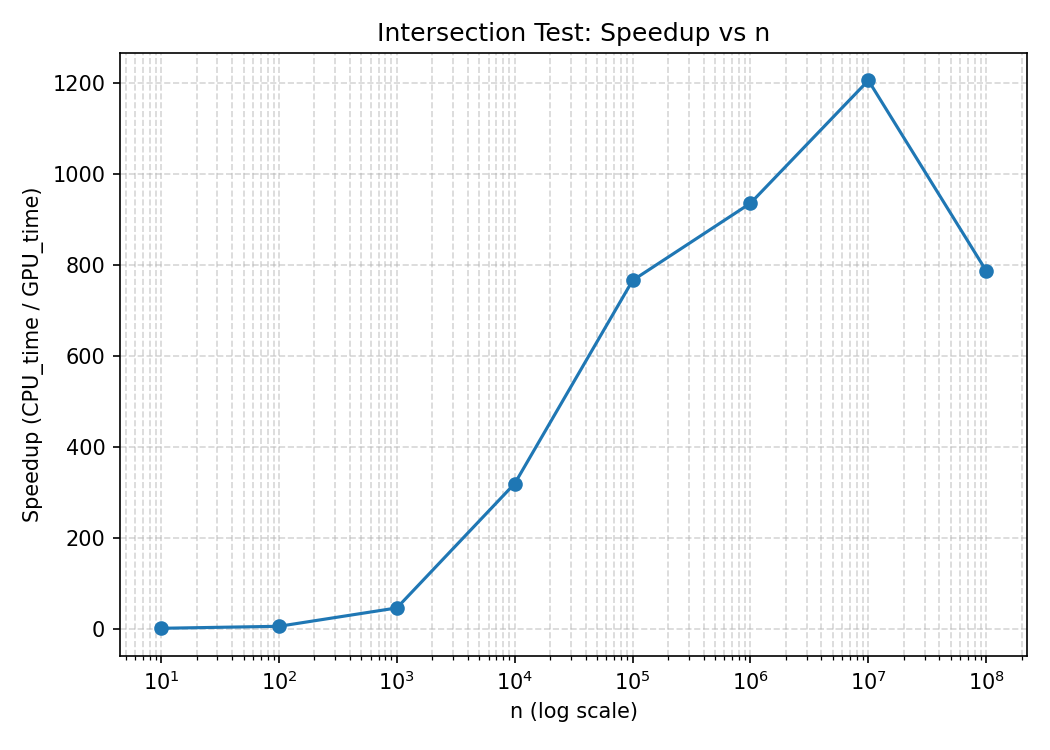
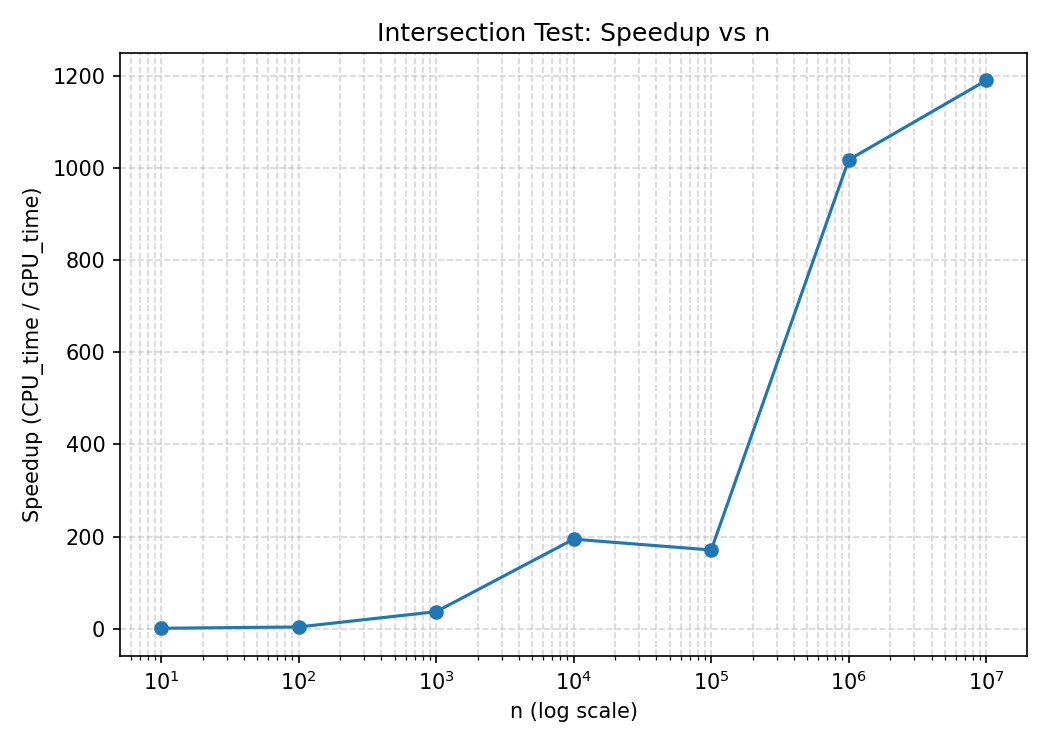
Breakdown GPU speedup test timing

Changed region(s): [[0.061, 0.0613, 0.9752, 0.92]]

diff --git a/examples/GPU speedup test/bench_intersection_test.py b/examples/GPU speedup test/bench_intersection_test.py
@@ -13,6 +13,9 @@ Usage:
   python bench_intersection_test.py --max-mem-gb 8  # skip cases estimated > 8 GB RAM
 """
 
+import numpy as np
+from geometry import get_intersection_area
+from geometry_gpu import get_intersection_area_gpu_profiler
 import argparse
 import csv
 import math
@@ -20,19 +23,41 @@ import os
 import sys
 import time
 from dataclasses import dataclass
-from intersection_test import test
 import matplotlib.pyplot as plt
+from numba import cuda
 
 
 @dataclass
 class RunResult:
     n: int
     cpu_time: float
-    gpu_time: float
-    speedup: float
+    gpu_call_time: float          # end-to-end time of Python call (includes host array creation)
+    gpu_h2d_s: float              # measured inside geometry_gpu (H->D copies)
+    gpu_alloc_s: float            # device allocations inside geometry_gpu
+    gpu_kernel_ms: float          # kernel time from CUDA events
+    gpu_d2h_s: float              # measured inside geometry_gpu (D->H copy)
+    gpu_total_s: float            # h2d + alloc + kernel + d2h (inside geometry_gpu)
+    speedup: float                # CPU_time / gpu_call_time (or choose /gpu_total_s)
     cpu_ok: bool
     gpu_ok: bool
     note: str = ""
+
+
+def test_routine(n=1, gpu=False):
+    proj_faces = np.tile(np.array([[[0, 0, 0], [2, 0, 0], [2, 2, 0], [0, 2, 0]]], dtype=np.float32), (n, 1, 1))
+    tri_normal = np.tile(np.array([[0, 0, 1]], dtype=np.float32), (n, 1))
+    tri_plane_normal = np.tile(np.array([[[-1, 0, 0], [0, -1, 0], [1/np.sqrt(2), 1/np.sqrt(2), 0]]], dtype=np.float32), (n, 1, 1))
+    tri_vertices = np.tile(np.array([[[0, 0, 0], [1, 0, 0], [0, 1, 0]]], dtype=np.float32), (n, 1, 1))
+    tri_epsilon = np.full((n,), 1e-6, dtype=np.float32)
+
+    if gpu:
+        computed_area, prof = get_intersection_area_gpu_profiler(proj_faces, tri_normal, tri_plane_normal, tri_vertices, tri_epsilon)
+        return computed_area, prof
+    else:
+        computed_area = get_intersection_area(proj_faces, tri_normal, tri_plane_normal, tri_vertices, tri_epsilon)
+        return computed_area, None
+
+
 
 
 def estimate_bytes_for_n(n: int) -> int:
@@ -59,7 +84,7 @@ def fmt_bytes(num):
     return f"{num:.2f} PB"
 
 
-def time_once(n: int, gpu: bool, timeout: float = None) -> tuple[bool, float, str]:
+def time_once(n: int, gpu: bool) -> tuple[bool, float, str]:
     """
     Time a single call to test(n, gpu=...).
     Returns: (ok, elapsed_sec or None, note)
@@ -67,12 +92,32 @@ def time_once(n: int, gpu: bool, timeout: float = None) -> tuple[bool, float, st
     t0 = time.perf_counter()
     try:
         # Optionally allow a crude timeout by polling time in a loop (simple approach).
-        # Here we just execute directly; if you need hard timeouts, use multiprocessing.
-        test(n=n, gpu=gpu)
+        test_routine(n=n, gpu=gpu)
         elapsed = time.perf_counter() - t0
         return True, elapsed, ""
     except Exception as e:
         return False, None, f"{type(e).__name__}: {e}"
+    
+def time_once_gpu_profiled(n: int) -> tuple[bool, float, dict, str]:
+    """
+    Times a single GPU run and returns:
+      (ok, gpu_call_elapsed_s, prof_dict, note)
+    gpu_call_elapsed_s: full Python call time (includes host array creation in intersection_test)
+    prof_dict: {'h2d_s','alloc_s','kernel_ms','d2h_s','total_s'} from geometry_gpu
+    """
+    try:
+        # Warm GPU sync before starting
+        cuda.synchronize()
+        t0 = time.perf_counter()
+
+        _, prof = test_routine(n=n, gpu=True)
+
+        # prof["total_s"] already includes syncs inside geometry_gpu.py
+        elapsed = time.perf_counter() - t0
+        # elapsed includes host array creation + function overhead; prof["total_s"] is inside get_intersection_area_gpu()
+        return True, elapsed, prof, ""
+    except Exception as e:
+        return False, None, {}, f"{type(e).__name__}: {e}"
 
 
 def median(vals):
@@ -105,7 +150,7 @@ def main():
     # Warmup GPU once (helps JIT/first allocation)
     if args.warmup_n > 0:
         print(f"[warmup] GPU warmup with n={args.warmup_n}")
-        ok, t, note = time_once(args.warmup_n, gpu=True)
+        ok, t, prof, note = time_once_gpu_profiled(n=args.warmup_n)
         if ok:
             print(f"[warmup] GPU warmup done in {t:.4f} s")
         else:
@@ -146,40 +191,76 @@ def main():
 
         # GPU timing
         gpu_times = []
+        gpu_h2d = []
+        gpu_alloc = []
+        gpu_kernel_ms = []
+        gpu_d2h = []
+        gpu_total = []
         gpu_note = ""
         gpu_ok = True
         for r in range(args.repeats):
-            ok, t, note = time_once(n, gpu=True)
+            ok, t, prof, note = time_once_gpu_profiled(n)
             if not ok:
                 gpu_ok = False
                 gpu_note = note
                 break
             gpu_times.append(t)
             print(f"  GPU run {r+1}/{args.repeats}: {t:.4f} s")
+            gpu_h2d.append(prof.get("h2d_s", float("nan")))
+            gpu_alloc.append(prof.get("alloc_s", float("nan")))
+            gpu_kernel_ms.append(prof.get("kernel_ms", float("nan")))
+            gpu_d2h.append(prof.get("d2h_s", float("nan")))
+            gpu_total.append(prof.get("total_s", float("nan")))
 
-        gpu_time = median(gpu_times) if gpu_ok else None
         if gpu_ok:
-            print(f"  GPU median: {gpu_time:.4f} s")
+            gpu_call_time = sorted(gpu_times)[len(gpu_times)//2]
+            gpu_h2d_s     = sorted(gpu_h2d)[len(gpu_h2d)//2]
+            gpu_alloc_s   = sorted(gpu_alloc)[len(gpu_alloc)//2]
+            gpu_kernel    = sorted(gpu_kernel_ms)[len(gpu_kernel_ms)//2]
+            gpu_d2h_s     = sorted(gpu_d2h)[len(gpu_d2h)//2]
+            gpu_total_s   = sorted(gpu_total)[len(gpu_total)//2]
+        else:
+            gpu_call_time = gpu_h2d_s = gpu_alloc_s = gpu_kernel = gpu_d2h_s = gpu_total_s = None
+
+        if gpu_ok:
+            print(f"  GPU median: {gpu_call_time:.4f} s")
         else:
             print(f"  GPU FAILED: {gpu_note}")
 
-        speed = (cpu_time / gpu_time) if (cpu_ok and gpu_ok and gpu_time and gpu_time > 0) else None
+        speed = (cpu_time / gpu_call_time) if (cpu_ok and gpu_ok and gpu_call_time and gpu_call_time > 0) else None
         note_parts = []
         if not cpu_ok:
             note_parts.append(f"CPU error: {cpu_note}")
         if not gpu_ok:
             note_parts.append(f"GPU error: {gpu_note}")
-        results.append(RunResult(n=n, cpu_time=cpu_time, gpu_time=gpu_time, speedup=speed,
-                                 cpu_ok=cpu_ok, gpu_ok=gpu_ok, note=" | ".join(note_parts)))
+        results.append(RunResult(
+            n=n,
+            cpu_time=cpu_time,
+            gpu_call_time=gpu_call_time,
+            gpu_h2d_s=gpu_h2d_s,
+            gpu_alloc_s=gpu_alloc_s,
+            gpu_kernel_ms=gpu_kernel,
+            gpu_d2h_s=gpu_d2h_s,
+            gpu_total_s=gpu_total_s,
+            speedup=speed,
+            cpu_ok=cpu_ok,
+            gpu_ok=gpu_ok,
+            note=" | ".join(note_parts),
+        ))
 
     # Save CSV
     csv_path = f"{args.out_prefix}_results.csv"
     with open(csv_path, "w", newline="") as f:
         w = csv.writer(f)
-        w.writerow(["n", "cpu_time_s", "gpu_time_s", "speedup_cpu_over_gpu", "cpu_ok", "gpu_ok", "note"])
+        w.writerow(["n", "cpu_time_s", "gpu_time_s", "gpu_h2d_s", "gpu_alloc_s", "gpu_kernel_ms", "gpu_d2h_s", "gpu_total_s", "speedup_cpu_over_gpu", "cpu_ok", "gpu_ok", "note"])
         for r in results:
             w.writerow([r.n, r.cpu_time if r.cpu_time is not None else "",
-                        r.gpu_time if r.gpu_time is not None else "",
+                        r.gpu_call_time if r.gpu_call_time is not None else "",
+                        r.gpu_h2d_s if r.gpu_h2d_s is not None else "",
+                        r.gpu_alloc_s if r.gpu_alloc_s is not None else "",
+                        r.gpu_kernel_ms if r.gpu_kernel_ms is not None else "",
+                        r.gpu_d2h_s if r.gpu_d2h_s is not None else "",
+                        r.gpu_total_s if r.gpu_total_s is not None else "",
                         r.speedup if r.speedup is not None else "",
                         int(r.cpu_ok), int(r.gpu_ok), r.note])
     print(f"\nSaved results to {csv_path}")
